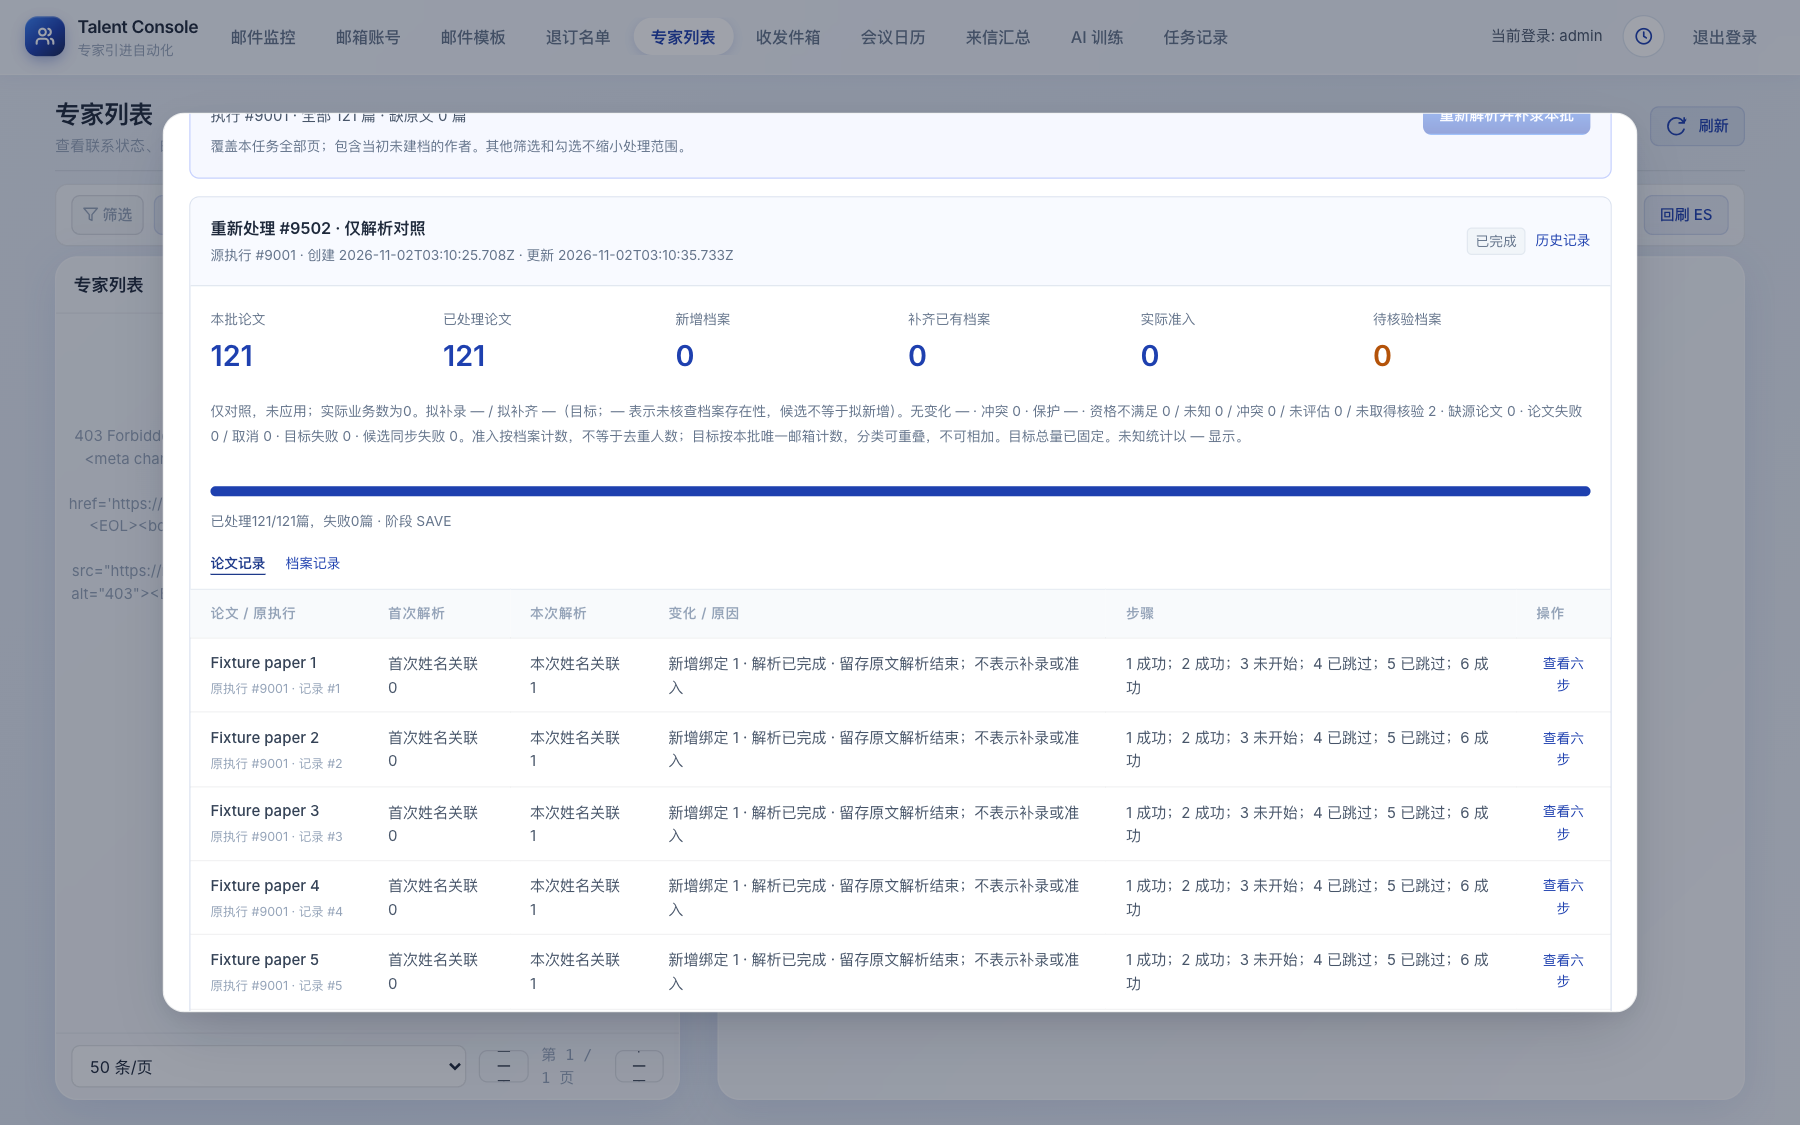
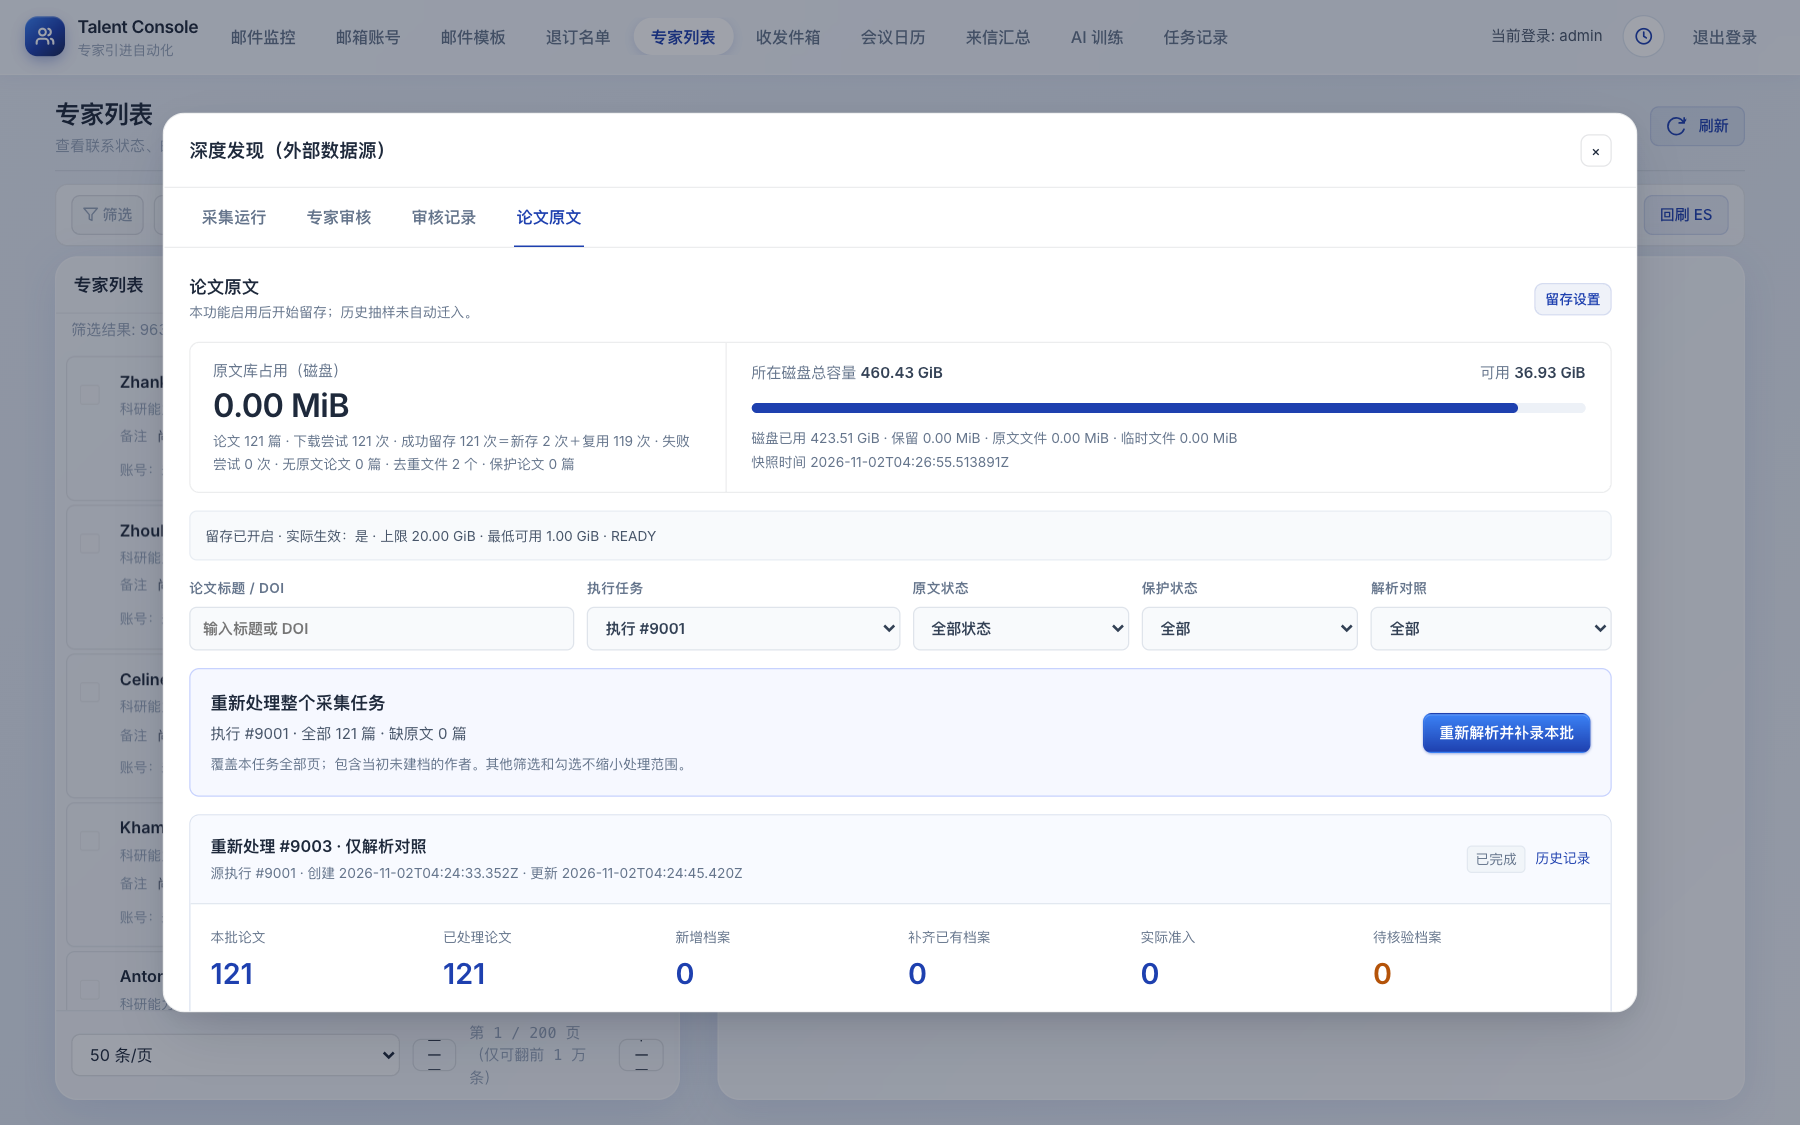
docs(fast-p): record child05 repair evidence

diff --git a/docs/plans/fast/paper-reprocess-master/children/05/execution.md b/docs/plans/fast/paper-reprocess-master/children/05/execution.md
@@ -126,9 +126,9 @@ Product commit: `ccdb6de` — `feat(fast-p): implement child05 paper reprocess U
 
 ### Browser/runtime evidence
 
-Runtime method (not production): disposable MySQL 8.0.36 Docker container on `127.0.0.1:33307`; real Spring Boot application started from compiled production classes on `127.0.0.1:18321` with Flyway v173, `AUTH_ENABLED=false` plus a fixture admin session for read-only verification APIs. Archive data was seeded only through production `DiscoveryPaperArchiveService` into a temp directory: 121 OPENALEX records with EMBEDDED_TEXT bodies, `alice@fixture.edu` / `bob@fixture.edu`. A real AUDIT run 9502 was started in the browser and executed by the production `@Scheduled poll()`; `DiscoveryPaperArchiveService`/archive/ES/network were not otherwise contacted. A synthetic isolated ENFORCE run 9600 plus verification run 9700/item 1 was inserted into the same disposable schema to exercise the running state and existing eight-step seam; it is fixture data, not production data.
+Runtime method (not production): disposable MySQL 8.0.36 Docker container on `127.0.0.1:33307`; real Spring Boot application started from compiled production classes on `127.0.0.1:18321` with Flyway v173, `AUTH_ENABLED=false` plus a fixture admin session for read-only verification APIs. Archive data was seeded only through production `DiscoveryPaperArchiveService` into a temp directory: 121 OPENALEX records with EMBEDDED_TEXT bodies, `alice@fixture.edu` / `bob@fixture.edu`. A real AUDIT run 9003 was started in the browser and executed by the production `@Scheduled poll()` (the pre-repair 9502 run is superseded and its JSON removed); `DiscoveryPaperArchiveService`/archive/ES/network were not otherwise contacted. A synthetic isolated ENFORCE run 9600 plus verification run 9700/item 1 was inserted into the same disposable schema to exercise the running state and existing eight-step seam; it is fixture data, not production data.
 
-- 9502 API: `COMPLETED`, `AUDIT`, papers 121, targets 2, actualNew/Updated/Admitted 0, `wouldCreate/wouldRepair/unchanged/protected` null, `totalKnown=true`, `targetTotalKnown=true` (`runtime-9502.json`).
+- 9003 API: `COMPLETED`, `AUDIT`, papers 121, targets 2, actualNew/Updated/Admitted 0, `wouldCreate=1`, `wouldRepair=1`, unchanged/protected null (no business outcome), `totalKnown=true`, `targetTotalKnown=true` (`runtime-9003.json`).
 - 9600 API: `RUNNING`, `ENFORCE`, papers 121, targets 1, actualNew 1, pendingVerification 1, qualification `notEvaluated=1`, `categoriesOverlap=true` (`runtime-9600.json`).
 - Apollo saved settings stayed revision 1, `searchEnabled=true`, `detailEnabled=false`; no PUT issued by the new flow (`runtime-apollo.json`).
 - Mobile metrics: 390×844 CSS viewport, dialog width 358, stats 3 columns (94px), batch bar column, no page-level horizontal overflow, dialog header/footer visible, start button reachable; 1440×900: 6 stats columns, batch gap 20px/padding 16px/radius 8px, title 14px, stat 23px, dialog 700px, no inline styles.
@@ -161,3 +161,16 @@ Product/test: exactly the nineteen files in `ccdb6de`. Evidence/control plane: t
 ### Remaining Blocker / Next Action
 
 None for execution handoff. READY_FOR_VERIFICATION → controller checkpoints product commit `ccdb6de` and this evidence, then dispatches the independent child05 verifier. No aggregate review is performed here.
+
+### Repair round 1 — independent verification findings F-01..F-04
+
+Verifier attempt 1 (`docs/plans/fast/paper-reprocess-master/children/05/verify-log.md`) returned FAIL with F-01/F-02 P1 and F-03/F-04 P2. Repairs were limited to the nineteen authorized files; fix commit `46bcb8a3875a6957ed18494200d158de09dd0f38`.
+
+| Finding | Resolution | Regression |
+|---|---|---|
+| F-01 proposed counts dead | `summary()` now counts candidate booleans for every persisted TARGET row instead of requiring `businessExistenceEvaluated=true`; AUDIT shows the overlapping candidate counts, while ENFORCE no longer pretends “— 表示未核查” and states that proposals are only provided by the AUDIT mode. Real writer path covered in `paper03WholeSourceScenario`. | `runtime-9003.json` real UI-created AUDIT: `wouldCreate=1`, `wouldRepair=1`, actuals 0; screenshots `rp05-audit-complete-1440-*` show 拟补录 1 / 拟补齐 1. Integration test AUDIT expectations updated to 2/2; service DTO test now asserts positive proposal serialization. |
+| F-02 visible AUDIT replaying pending ENFORCE | `openConfirm()` restores and locks the pending mode; the hint names the pending mode; `start()` locks immediately on pending creation and unlocks only after resolution/deterministic rejection. | New focused test closes/reopens an uncertain ENFORCE submission, asserts ENFORCE checked, AUDIT unchecked, both radios disabled and the next POST reuses the same key/mode. Browser fixture `rp05-pending-enforce-1440.png` shows ENFORCE selected and locked after a failed submission. |
+| F-03 stale pending key/hash wedge | Deterministic 4xx clears the pending object and hash, unlocks the mode, refreshes `/preview`, and allows a new UUID; only 5xx/network retain the unknown submission. | New focused test injects 409, asserts the pending key is cleared, preview refresh re-enables start, and the retry uses a different UUID. |
+| F-04 unhandled/degraded reader | Reprocess `itemEvidence` now carries the frozen body SHA; `openPaper` routes SHA-bearing references through the existing fixed-record SHA/readability checks; the click handler catches rejections and writes the Chinese error to the dialog subtitle. | New focused tests assert `PAPER_SHA_CONFLICT`/`PAPER_REFERENCE_INVALID` through the reprocess branch and a rejected reader surfaces on `detailSubtitle` without an unhandled promise. |
+
+Fresh commands after the repair commit: `node --check` exit0; focused 44/44; full `node --test src/test/js/*.test.js` 2035/2035; JDK11 `mvn test -Dtest=... -DpaperReprocessIt=true -DmysqlIt=true` 12/0/0/0 + 6/0/0/0. A new isolated app/MySQL run recreated 121 archive records and the real AUDIT 9003; runtime-9003/9600 JSON and the running/eight-step screenshots were refreshed. The 9600/9700 fixture remains explicitly synthetic. No `review-fast-p` was run; re-verification is the next controller action.
